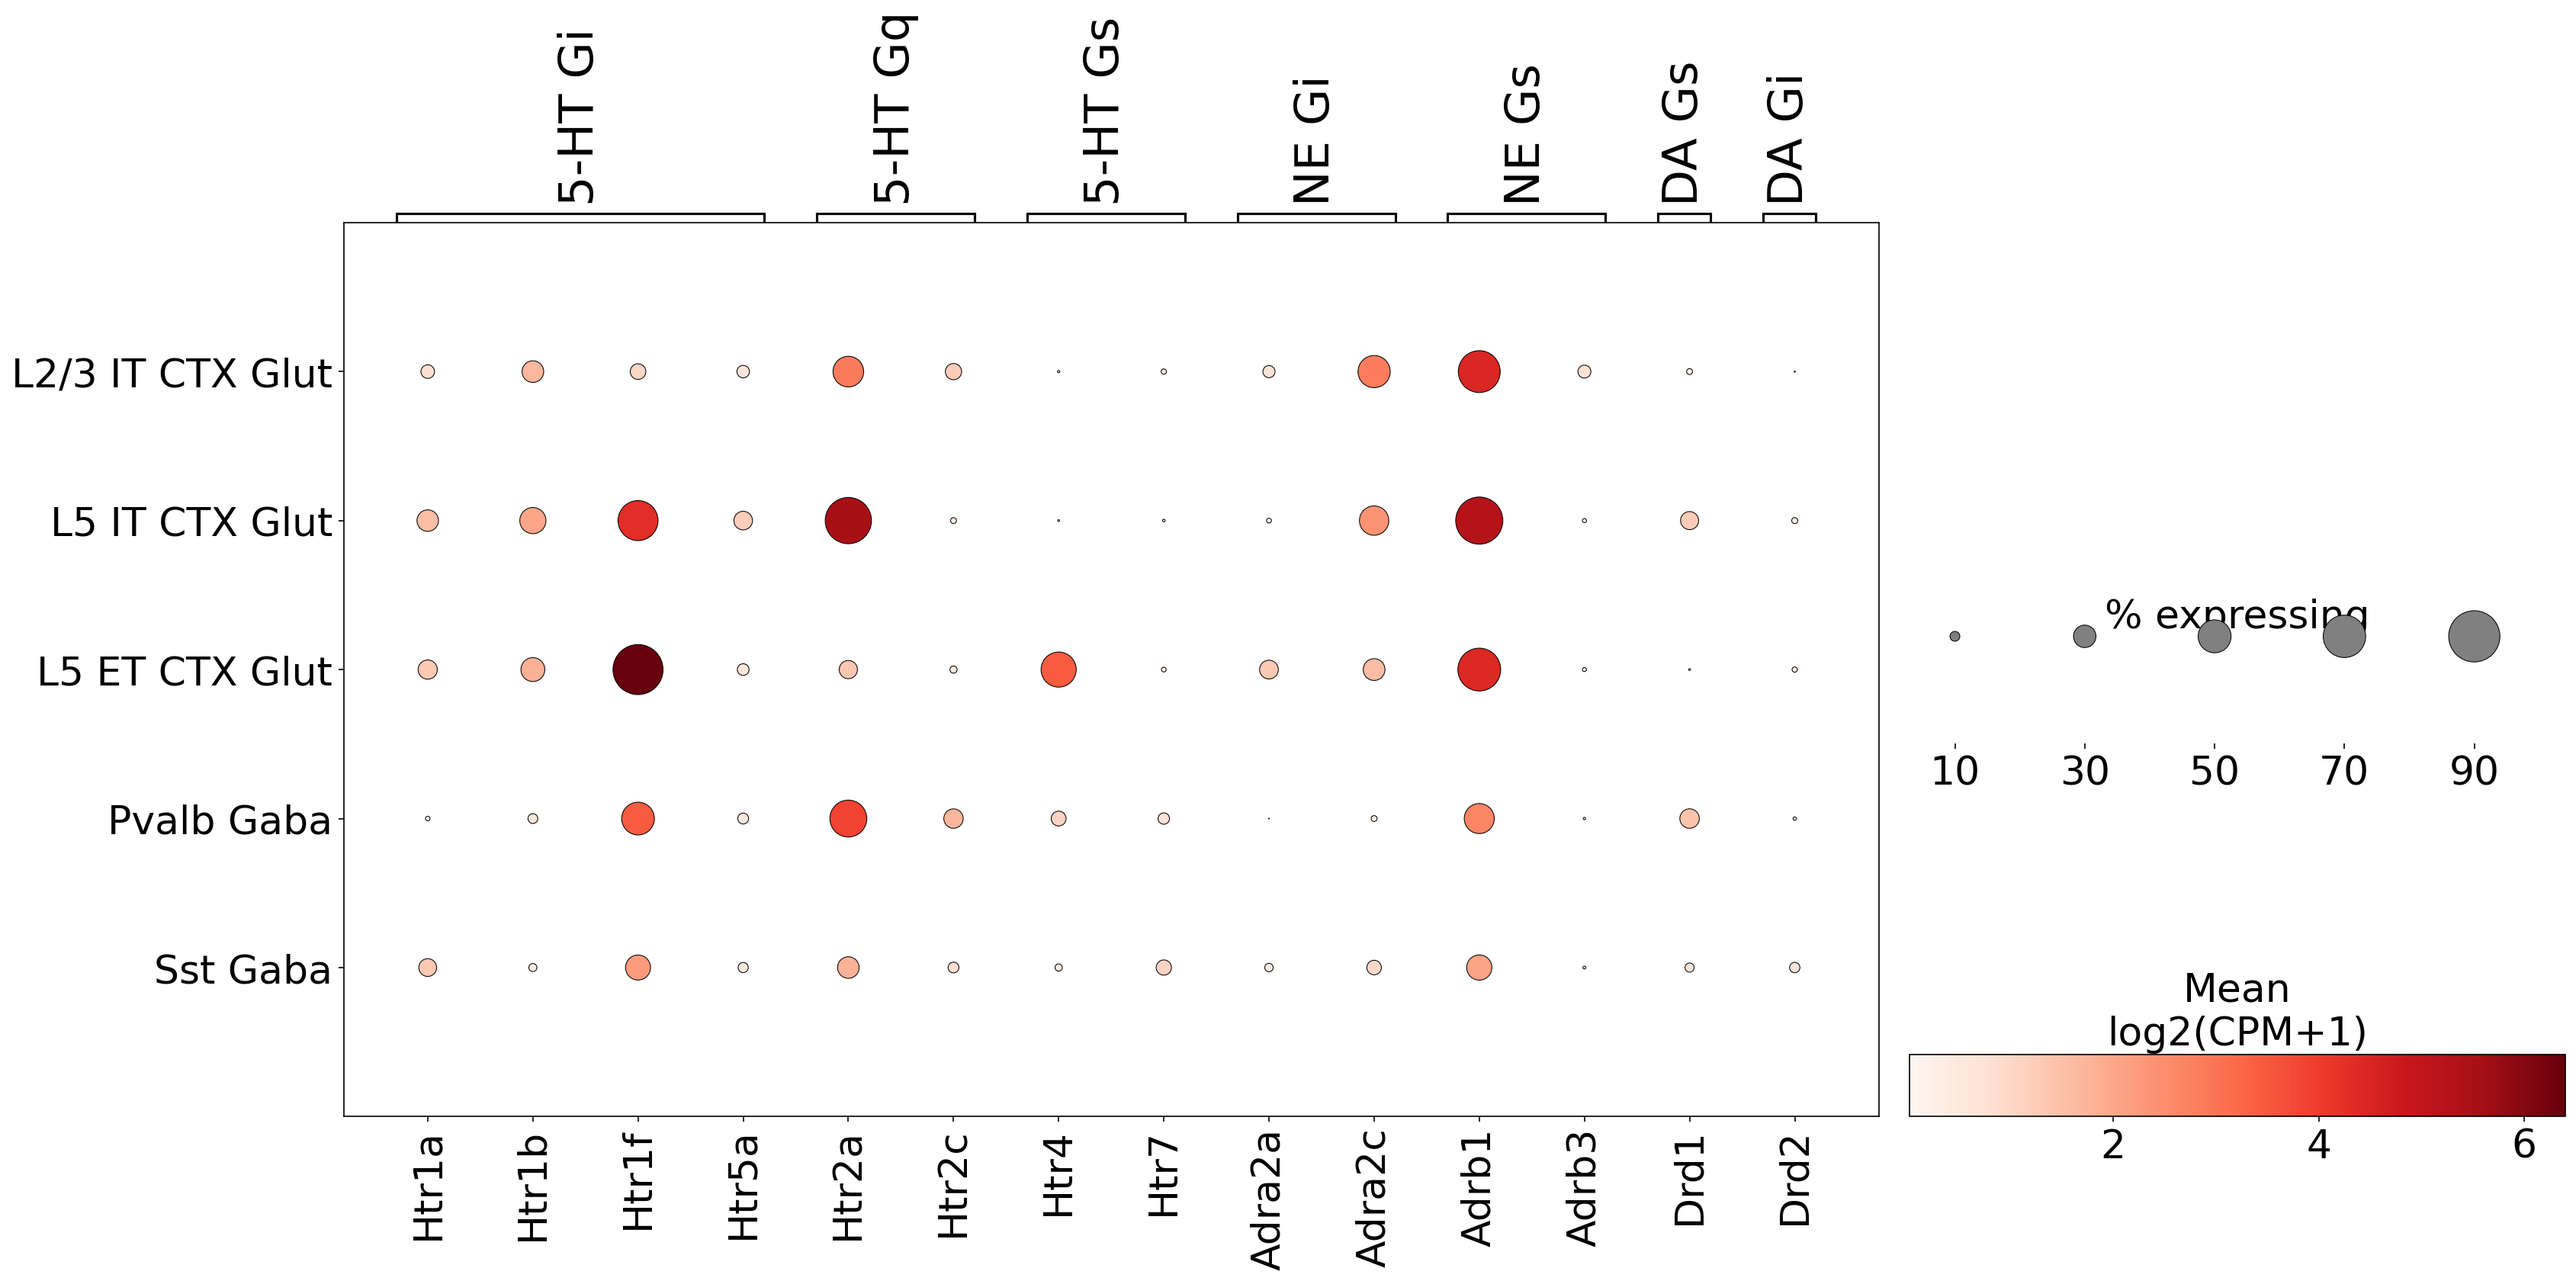
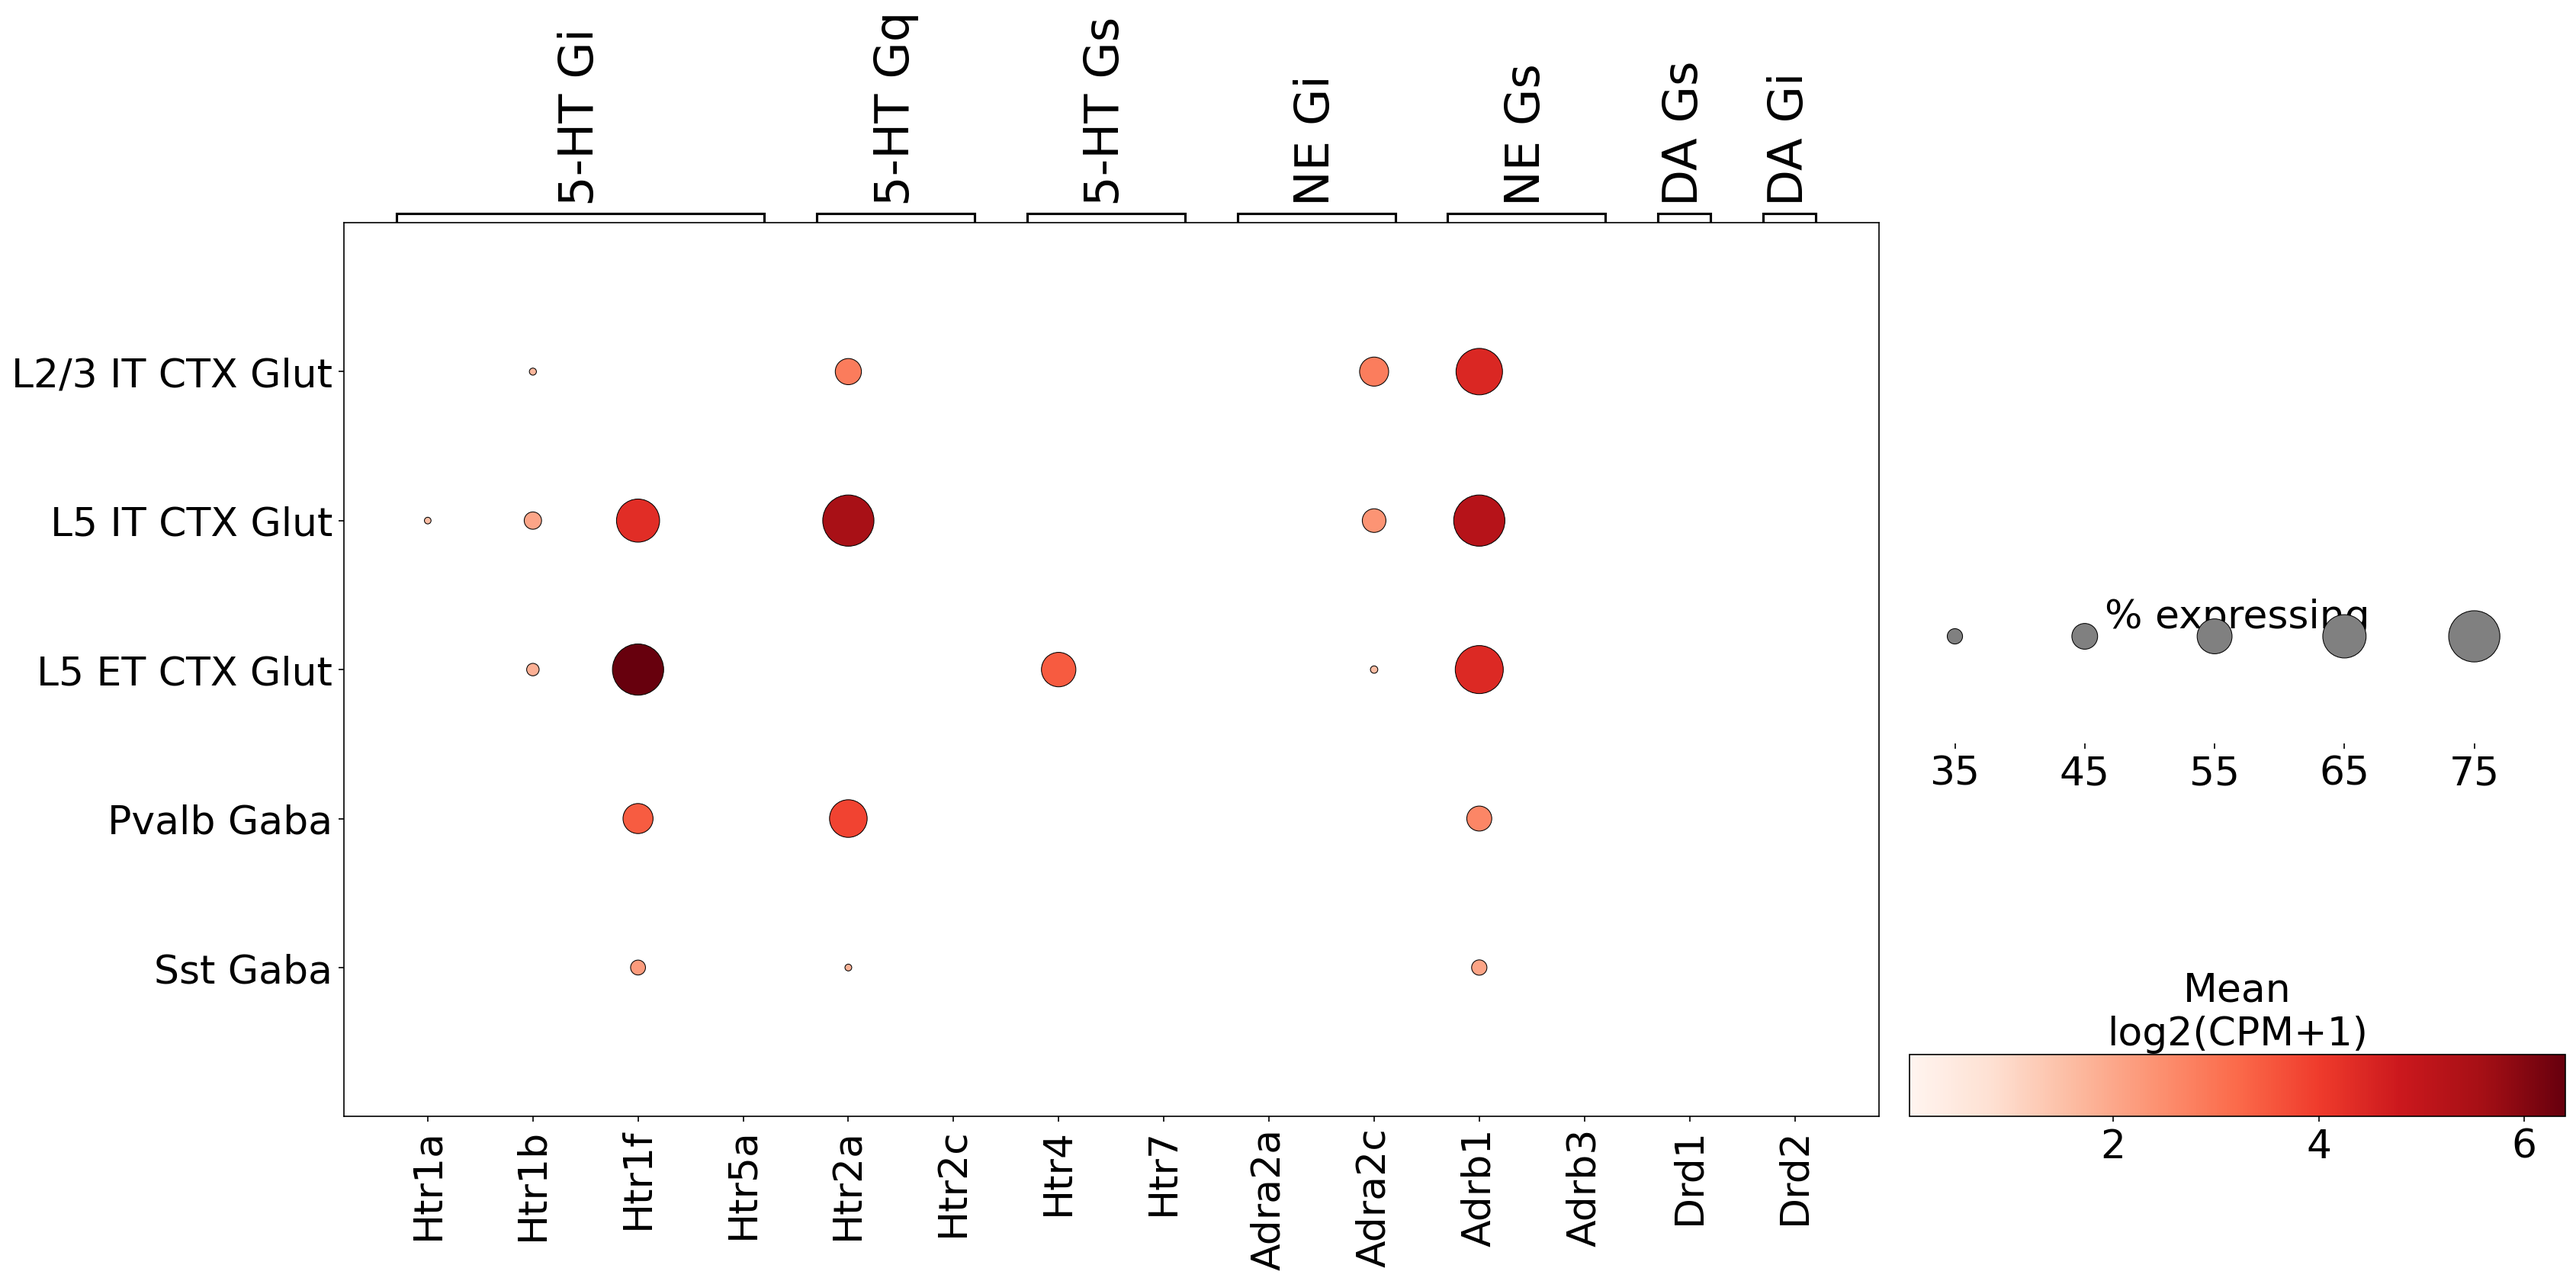
Clip dot-size legend to 25-75% so % expressing title isn't blocked
Without clipping, the 90% dot in the size legend overlapped the
'% expressing' title at 3x font size. dot_min=0.25 / dot_max=0.75
shrinks the largest legend dot and gives the title room to render.

diff --git a/notebooks/regenerate_mpfc_simplified_dotplot.py b/notebooks/regenerate_mpfc_simplified_dotplot.py
@@ -151,6 +151,8 @@ def main():
         groupby='subclass_short',
         cmap='Reds',
         figsize=(fig_w, fig_h),
+        dot_min=0.25,
+        dot_max=0.75,
         colorbar_title='Mean\nlog2(CPM+1)',
         size_title='% expressing',
         show=False,
